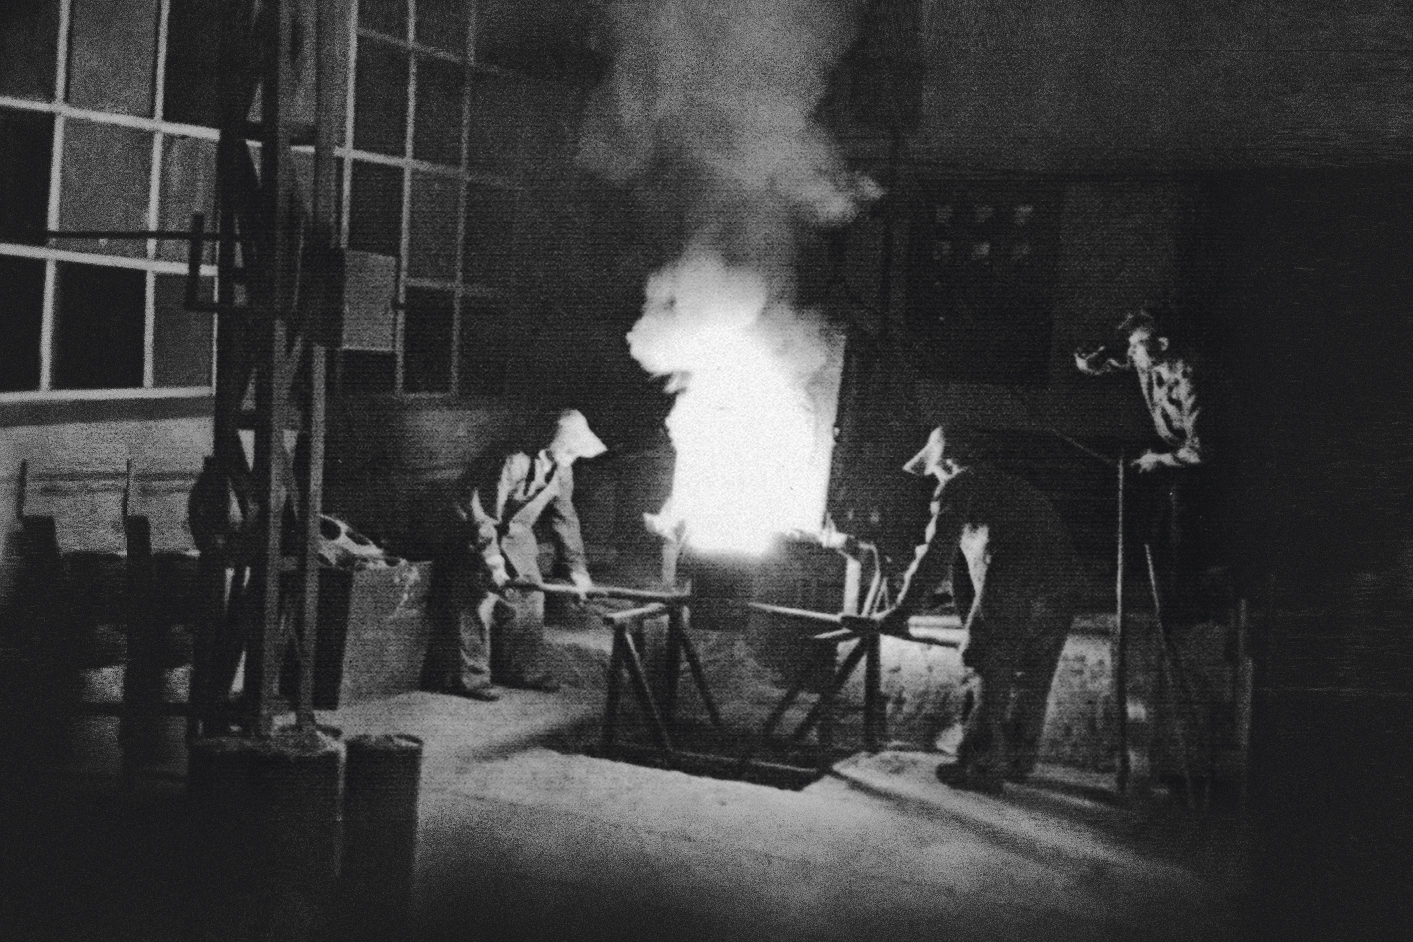
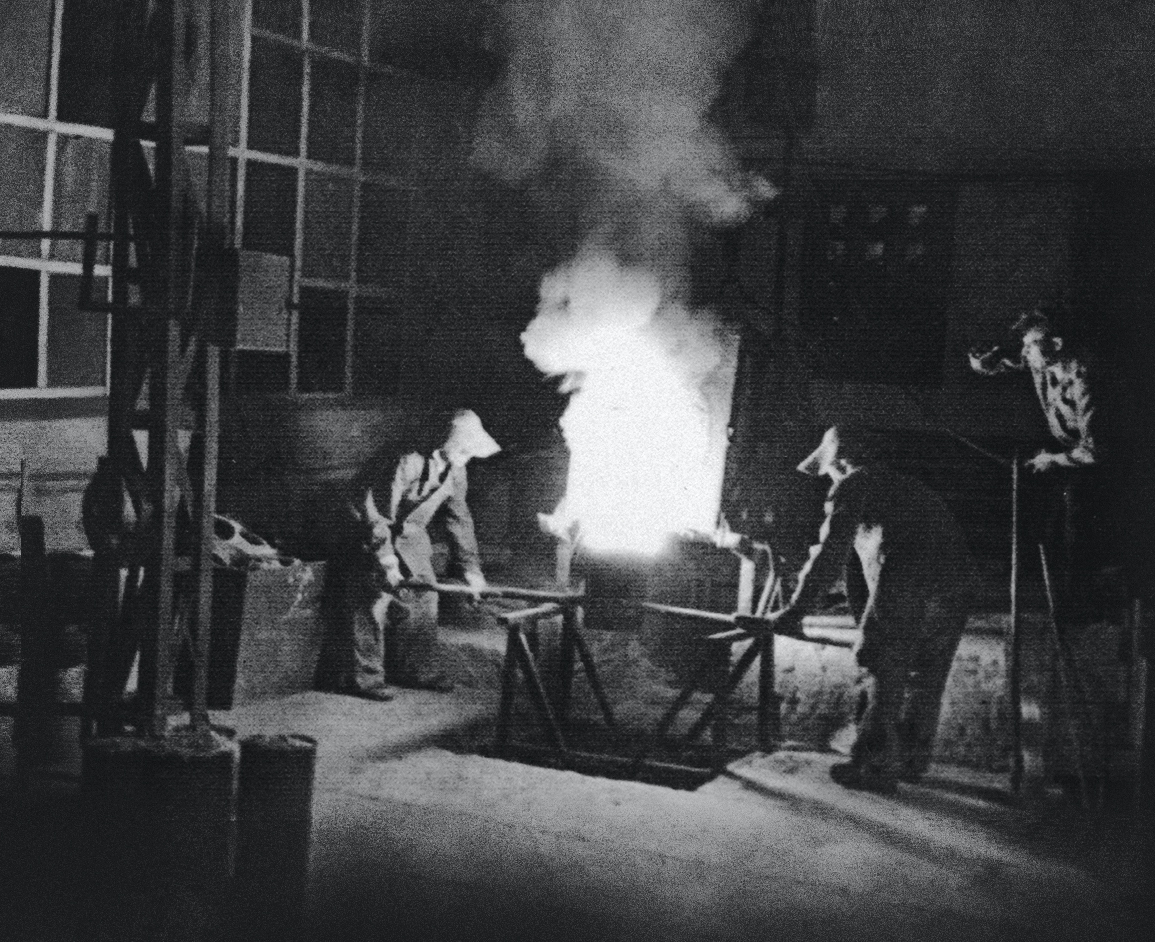
ТЕПЛОБЛАБАЛ

diff --git a/components/Factories/Teploobmennik/Chapters/06_Personnel/Personnel.jsx b/components/Factories/Teploobmennik/Chapters/06_Personnel/Personnel.jsx
@@ -2,7 +2,7 @@ import React from 'react'
 import classNames from 'classnames'
 import Image from 'next/image'
 
-import { MainText, CommonText, CommonImage, Speech } from '../../../../'
+import { MainText, CommonText, CommonImages, Speech } from '../../../../'
 
 import styles from './Personnel.module.css'
 
@@ -25,22 +25,13 @@ const Personnel = () => {
             декабрь 1942 года рост ударников производства составил 60%,
             стахановцев — 80%.
           </p>
-
-          <p>
-            С начала 1942 года на предприятии создаются ударные фронтовые и
-            комсомольско-молодежные бригады, перевыполняющие нормы на 200–300% и
-            более. Итоги работы таких бригад подводились ежеквартально.
-            Результаты вывешивали на заводской доске показателей.
-          </p>
         </MainText>
 
-        {/* <CommonImage>
+        <CommonImages>
           <figure className={classNames(styles.img, styles.main)}>
             <Image src="/images/teploobmennik/6/1.jpg" layout="fill" />
           </figure>
-        </CommonImage>         */}
 
-        <CommonImage content>
           <figure className={classNames(styles.img, styles._1)}>
             <Image src="/images/teploobmennik/6/2.jpg" layout="fill" />
 
@@ -48,10 +39,14 @@ const Personnel = () => {
               Завотделом снабжения заводского УКСа попросил разрешить ему ежедневно после основной нагрузки работать еще и у станка
             </figcaption>
           </figure>
-        </CommonImage>
+        </CommonImages>
 
         <CommonText>
           <p>
+            С начала 1942 года на предприятии создаются ударные фронтовые и
+            комсомольско-молодежные бригады, перевыполняющие нормы на 200–300% и
+            более. Итоги работы таких бригад подводились ежеквартально.
+            Результаты вывешивали на заводской доске показателей.
             К началу ноября 1942 года на заводе только девять рабочих не
             справлялись с нормой ежедневной выработки, но все они пришли на
             производство меньше двух недель назад и еще не успели в совершенстве

diff --git a/components/Factories/Teploobmennik/Chapters/09_PeacefulTime/PeacefulTime.jsx b/components/Factories/Teploobmennik/Chapters/09_PeacefulTime/PeacefulTime.jsx
@@ -28,6 +28,11 @@ const PeacefulTime = () => {
             тыс.кв.м (общая площадь составила более 16 тыс. кв. м) промышленных
             площадей, введено больше 200 единиц нового оборудования.
           </p>
+
+          <p className={styles.vrezka}>
+            За годы войны коллектив предприятия 39 раз занимал классные места во Всесоюзном соревновании заводов авиационной промышленности. 16 сентября 1945 года указом Президиума Верховного Совета СССР «за образцовое выполнение заданий Правительства по производству агрегатов для боевых самолетов» завод был награжден орденом Красной Звезды. 1641 работник награжден медалью «За доблестный труд в Великой Отечественной войне 1941–1945 гг.»
+          </p>
+
         </MainText>
 
         <CommonImage content>
@@ -48,9 +53,6 @@ const PeacefulTime = () => {
             технологические процессы: аргонодуговая сварка алюминиевых и
             нержавеющих сталей, изготовление сложных трубопроводов, сборка и
             испытание электросхем и т.д.
-          </p>
-
-          <p>
             В то же время массово строились многоквартирные дома для
             сотрудников, расширялась социальная инфраструктура: введены в
             эксплуатацию пионерский лагерь, детский сад, магазин.
@@ -61,13 +63,11 @@ const PeacefulTime = () => {
             качественное обновление предприятия. С собственными разработками у
             завода появились новые возможности для увеличения номенклатуры
             авиационной продукции.
-          </p>
-
-          <p>
             Таким завод вступал в новую эпоху — время бурного развития
             авиастроения в СССР. Сегодня на всех летательных аппаратах в России
             установлены изделия с маркой «Теплообменник».
           </p>
+
         </CommonText>
       </div>
     </div>

diff --git a/components/Factories/Teploobmennik/Chapters/04_Road/Road.jsx b/components/Factories/Teploobmennik/Chapters/04_Road/Road.jsx
@@ -46,21 +46,21 @@ const Road = () => {
                 войной это была территория, предназначавшаяся для строительства
                 ульяновского радиаторного завода № 285.
               </p>
+
+              <p>
+                Эвакуация завода № 469 из Солнечногорска началась в ночь на 19
+                октября 1941 года в тяжелейших условиях — снаряды рвались почти на
+                территории завода. По приказу наркома вывозили все: техническую
+                документацию, оборудование, уникальные и особо ценные станки,
+                материалы, инструмент. За период эвакуации завод № 469 отправил 189
+                единиц оборудования и 1032 человека — всех рабочих, ИТР и служащих
+                предприятия.
+              </p>
             </div>
           )}
         />
 
         <CommonText>
-          <p>
-            Эвакуация завода № 469 из Солнечногорска началась в ночь на 19
-            октября 1941 года в тяжелейших условиях — снаряды рвались почти на
-            территории завода. По приказу наркома вывозили все: техническую
-            документацию, оборудование, уникальные и особо ценные станки,
-            материалы, инструмент. За период эвакуации завод № 469 отправил 189
-            единиц оборудования и 1032 человека — всех рабочих, ИТР и служащих
-            предприятия.
-          </p>
-
           <p>
             Ветеран завода Е. В. Успенский вспоминал, что их эшелон ехал в
             Горький около трех суток, состав попал под бомбежку: «Прямых

diff --git a/components/Factories/Teploobmennik/Chapters/03_Radiators/Radiators.jsx b/components/Factories/Teploobmennik/Chapters/03_Radiators/Radiators.jsx
@@ -16,15 +16,7 @@ const Radiators = () => {
           </figure>
         </MainImage> */}
 
-        <MainText title="От парашютов к радиаторам">
-          <p>
-            Основанный в 1869 году в селе Солнечная Гора (позднее —
-            Солнечногорск Московской области) как самоткацкая бумажная фабрика,
-            в предвоенные годы завод специализировался на производстве
-            спасательных и грузовых парашютов. В 1939 году предприятию было
-            присвоено имя летчика Героя Советского Союза М.М. Громова.
-          </p>
-        </MainText>
+        <MainText title="От парашютов к радиаторам" />
 
         <Columns
           left={(
@@ -39,6 +31,14 @@ const Radiators = () => {
 
           right={(
             <div>
+              <p>
+                Основанный в 1869 году в селе Солнечная Гора (позднее —
+                Солнечногорск Московской области) как самоткацкая бумажная фабрика,
+                в предвоенные годы завод специализировался на производстве
+                спасательных и грузовых парашютов. В 1939 году предприятию было
+                присвоено имя летчика Героя Советского Союза М.М. Громова.
+              </p>
+
               <p>
                 В конце 1940 года солнечногорская фабрика была передана в ведение
                 Народного комиссариата авиационной промышленности СССР, заводу был

diff --git a/components/Factories/Teploobmennik/Chapters/07_Growth/Growth.jsx b/components/Factories/Teploobmennik/Chapters/07_Growth/Growth.jsx
@@ -5,6 +5,7 @@ import Image from 'next/image'
 import { MainText, CommonImages, Columns } from '../../../../'
 
 import styles from './Growth.module.css'
+import CommonText from '../../../../CommonText/CommonText'
 
 const Growth = () => {
   return (
@@ -45,17 +46,19 @@ const Growth = () => {
                 на 228%. Инженеры, мастера и рабочие завода провели большую работу
                 по рационализации производства и совершенствованию технологии».
               </p>
-
-              <p>
-                В этих условиях на заводе продолжалось капитальное строительство: за
-                1942 год было построено 14619 кв. м общей площади, из них почти 6
-                тыс. производственных корпусов и шесть жилых домов для рабочих.
-                Начали работать котельная, компрессорная, столовая, амбулатория,
-                душевая.
-              </p>
             </div>
           )}
         />
+
+        <CommonText>
+          <p>
+            В этих условиях на заводе продолжалось капитальное строительство: за
+            1942 год было построено 14619 кв. м общей площади, из них почти 6
+            тыс. производственных корпусов и шесть жилых домов для рабочих.
+            Начали работать котельная, компрессорная, столовая, амбулатория,
+            душевая.
+          </p>
+        </CommonText>
 
         <CommonImages>
           <figure className={classNames(styles.img, styles._1)}>

diff --git a/components/Factories/Teploobmennik/Chapters/05_Build/Build.jsx b/components/Factories/Teploobmennik/Chapters/05_Build/Build.jsx
@@ -72,9 +72,6 @@ const Build = () => {
             гаражные мастерские, проходная, столовая и другие объекты. Проложено
             1,5 км железнодорожных путей, 550 м паропровода и наружный
             водопровод первой очереди.
-          </p>
-
-          <p>
             Временными котельными на заводе поначалу служили два старых паровоза
             типа «Щ» — капитальная котельная была построена и пущена в
             эксплуатацию только весной 1942 года. Ветеран завода А. А. Елисеев
@@ -87,9 +84,6 @@ const Build = () => {
             партия радиаторов для самолетов. На тот момент из трех радиаторных
             заводов, эвакуированных в Троицк, Горький и Кузнецк, завод № 469
             оказался единственным действующим.
-          </p>
-
-          <p>
             Параллельно с производством радиаторов для авиапрома завод выпускал
             радиаторы для военных судов, для легких танков Т-60 и Т-70, корпуса
             аэронавигационных бомб (АНАБ).

diff --git a/components/Factories/Teploobmennik/Chapters/01_Intro/Intro.jsx b/components/Factories/Teploobmennik/Chapters/01_Intro/Intro.jsx
@@ -8,7 +8,7 @@ export default function Intro () {
       <div className={styles.page}>
         <div className={styles.header}>
           <h1 className={styles.title}>
-            Государственный Завод № 469 имени М.М. Громова
+            Государственный Завод № 469 {'имени М. М. Громова'}
           </h1>
 
           <p className={styles.desc}>АО ПКО «Теплообменник»</p>
@@ -21,8 +21,9 @@ export default function Intro () {
             <div className={styles.rd}>дней</div>
 
             <div className={styles.what}>
-              восстанавливали в Горьком эвакуированное из Солнечногорска
-              производство
+              восстанавливали в Горьком эвакуированное
+              <br />
+              из Солнечногорска производство
             </div>
           </div>
 
@@ -33,9 +34,7 @@ export default function Intro () {
 
             <div className={styles.what}>выпускал завод в 1943 году</div>
           </div>
-        </div>
 
-        <div className={styles.items}>
           <div className={styles.item}>
             <div className={styles.digit}>250 000 +</div>
 

diff --git a/components/Factories/Gidromash/Chapters/01_Intro/Intro.jsx b/components/Factories/Gidromash/Chapters/01_Intro/Intro.jsx
@@ -8,7 +8,7 @@ export default function Intro () {
     <div className={styles.root}>
       <div className={styles.page}>
         <div className={styles.header}>
-          <h1 className={styles.title}>Завод № 119 имени Г. М. Маленкова</h1>
+          <h1 className={styles.title}>{'Завод № 119 имени Г. М. Маленкова'}</h1>
 
           <p className={styles.desc}>НПАО «Гидромаш»</p>
         </div>

diff --git a/components/Factories/Teploobmennik/Chapters/07_Growth/Growth.module.css b/components/Factories/Teploobmennik/Chapters/07_Growth/Growth.module.css
@@ -6,7 +6,7 @@
   }
 
   &._1 {
-    padding-top: calc(942 / 1413 * 100%);
+    padding-top: calc(942 / 1150 * 100%);
   }
 
   &._2 {

diff --git a/components/Factories/Teploobmennik/Chapters/06_Personnel/Personnel.module.css b/components/Factories/Teploobmennik/Chapters/06_Personnel/Personnel.module.css
@@ -6,7 +6,7 @@
   }
 
   &._1 {
-    padding-top: calc(1254 / 1530 * 100%);
+    padding-top: calc(822 / 1036 * 100%);
   }
 }
 
